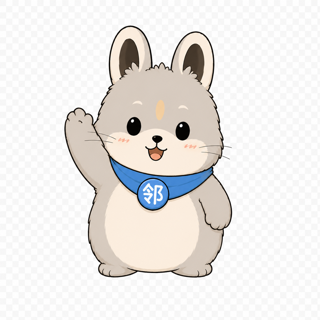
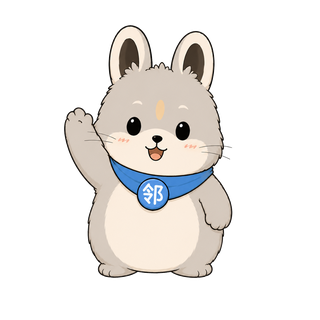
fix: 邻邻抠透明底 + AI客服按钮直接放大展示
原图是不透明白底,导致在蓝色按钮上显白框。用 flood-fill 从边缘抠掉
白底(保留肚子等内部白),20 张全部转 RGBA 透明。AI客服悬浮按钮去掉
白圈、邻邻放大到 40px 直接坐在蓝色胶囊上。

diff --git a/src/components/AiChatWidget/AiChatWidget.tsx b/src/components/AiChatWidget/AiChatWidget.tsx
@@ -308,9 +308,7 @@ export default function AiChatWidget({ grouped, hideTrigger }: Props) {
             style={{ boxShadow: '0 8px 28px rgba(37,99,235,0.45), 0 2px 8px rgba(37,99,235,0.25)' }}
             aria-label="打开 AI 客服"
           >
-            <span className="w-6 h-6 rounded-full bg-white flex items-center justify-center overflow-hidden flex-shrink-0">
-              <Mascot pose="hello" size={22} />
-            </span>
+            <Mascot pose="hello" size={40} className="flex-shrink-0 -my-2 drop-shadow" />
             <span className="text-sm font-semibold whitespace-nowrap">AI 客服</span>
           </motion.button>
         )}
